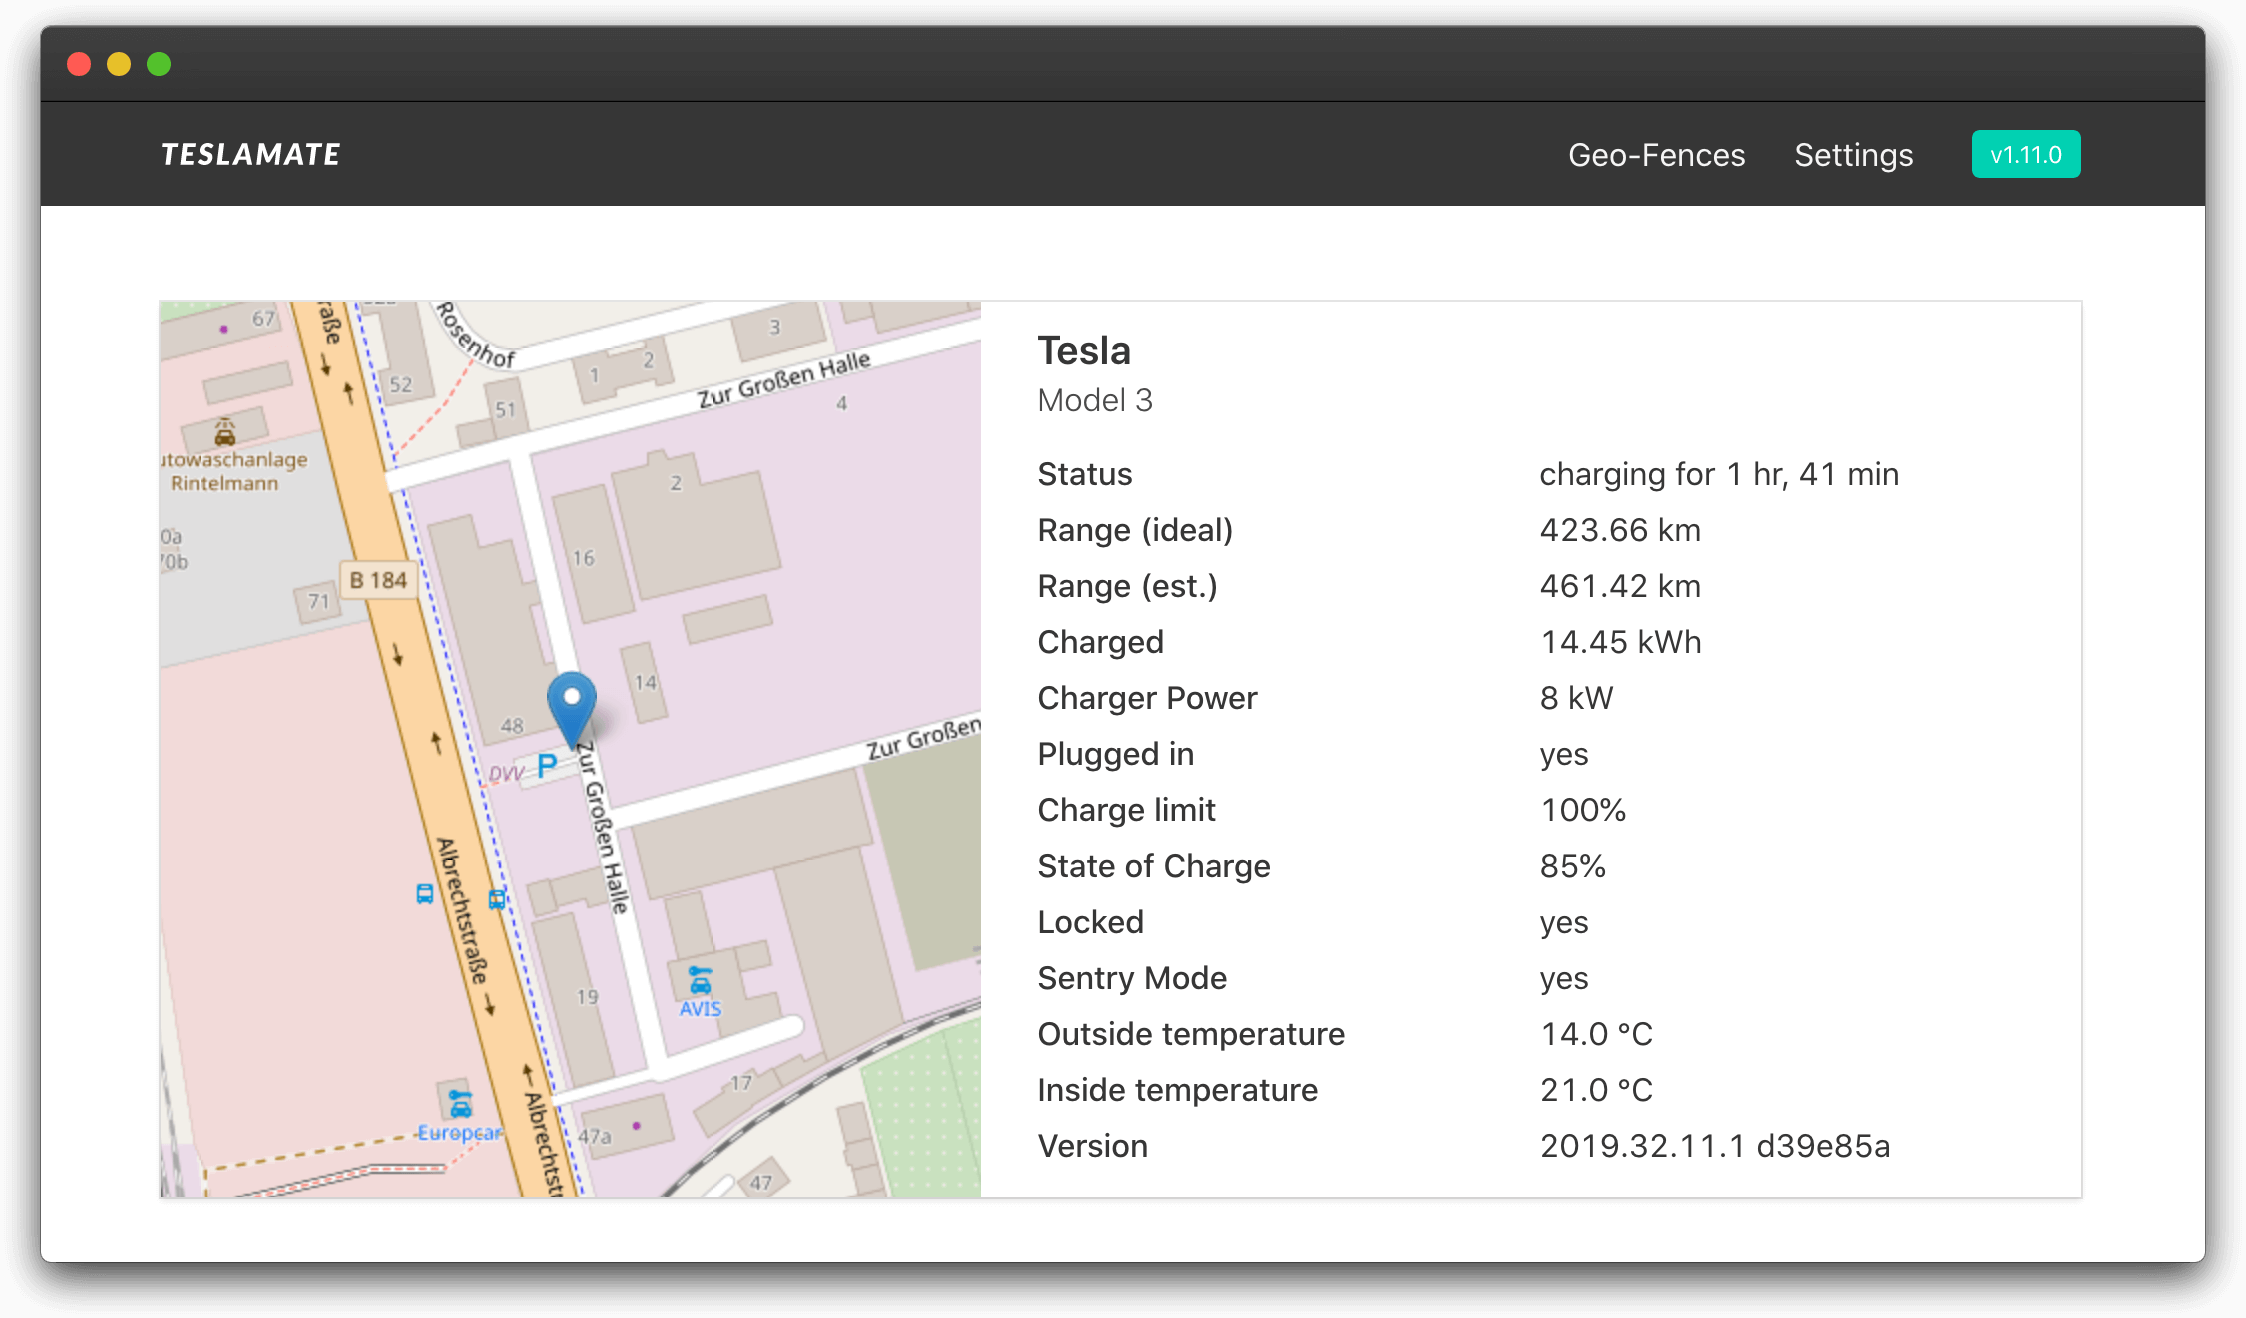
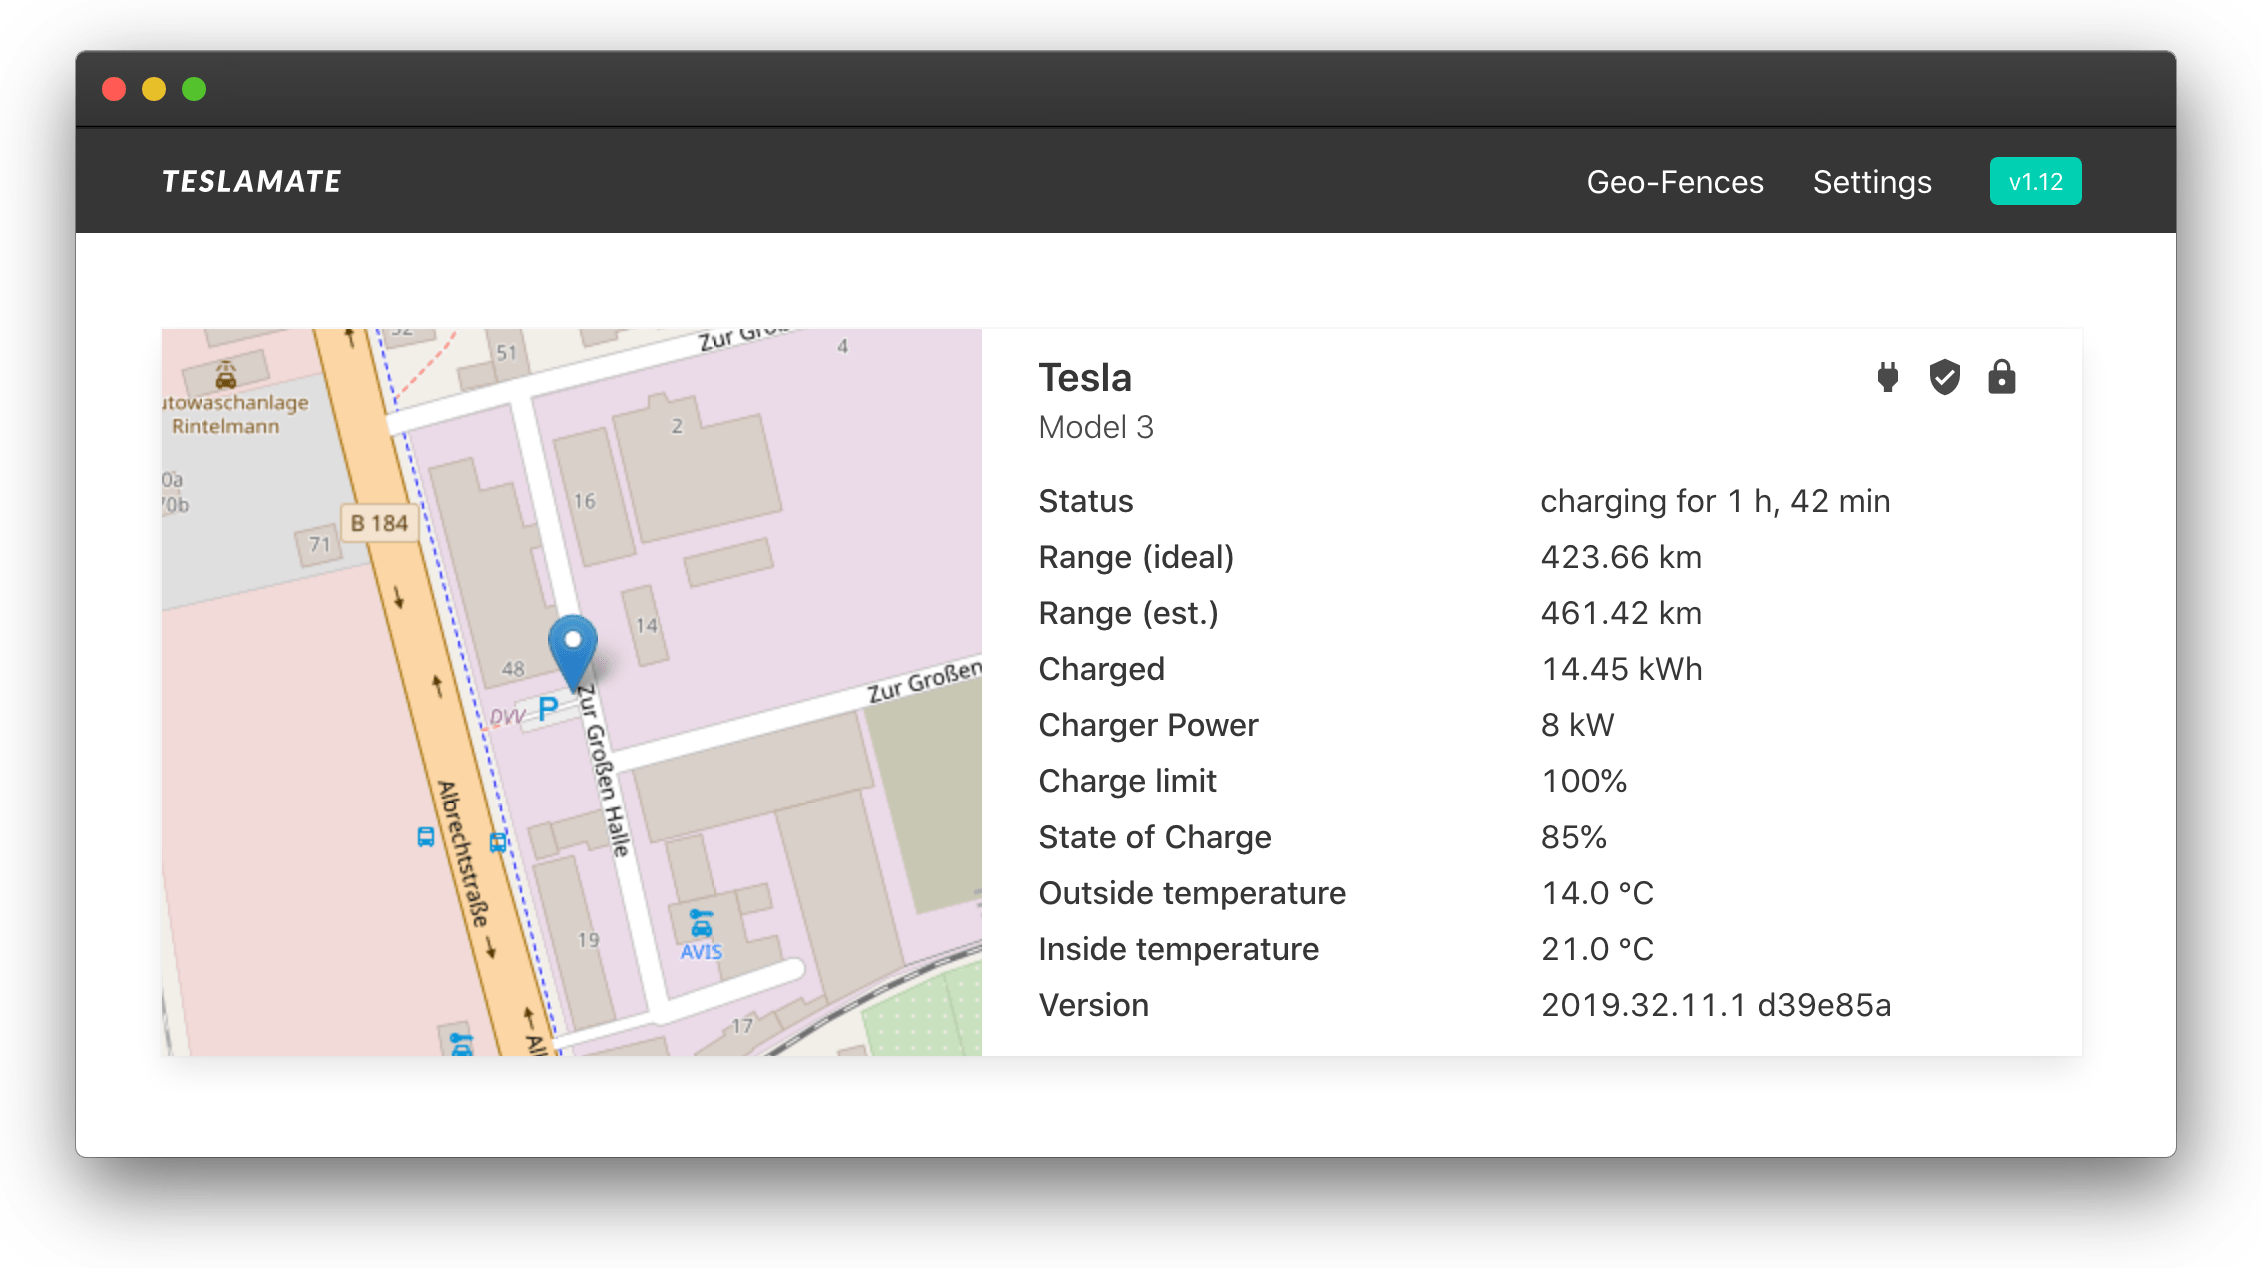
Bump version to 1.12

diff --git a/assets/css/app.scss b/assets/css/app.scss
@@ -111,12 +111,6 @@ $fullhd-enabled: false;
       padding: 0.75rem 1.5rem;
     }
   }
-
-  .update-available {
-    width: 100%;
-    letter-spacing: 0.25px;
-    font-weight: bolder;
-  }
 }
 
 .navbar-brand a.navbar-item:hover {

diff --git a/CHANGELOG.md b/CHANGELOG.md
@@ -1,8 +1,8 @@
 # Changelog
 
-## [1.12.0-dev] - unreleased
+## [1.12.0] - 2019-10-28
 
-We finally have **documentation**! Many thanks to [@ngardiner](https://github.com/ngardiner) for kicking it off and for doing most of the work and also thanks to [@krezac](https://github.com/krezac) for contributing a guide to creating iOS Shortcuts for TeslaMate!
+We finally have **documentation**! Many thanks to [@ngardiner](https://github.com/ngardiner), who gave the impulse and did most of the work and also to [@krezac](https://github.com/krezac), who contributed a guide to creating iOS Shortcuts for TeslaMate!
 
 ### New Features
 
@@ -10,41 +10,38 @@ We finally have **documentation**! Many thanks to [@ngardiner](https://github.co
 
 Previous versions of TeslaMate shipped with hard-coded efficiency values for the various Tesla models. These efficiency values are needed to calculate trip consumptions, because the Tesla API does not provide them directly.
 
-The hard-coded efficiency values were _probably_ pretty accurate, but it was impossible to ensure the correctness of all of them. In addition, the new Model S and X "Raven" could not be reliably identified because the Tesla API returns wrong option codes for both.
+The hard-coded values were _probably_ pretty accurate, but it was impossible to ensure the correctness of all of them. In addition, the new Model S and X "Raven" could not be reliably identified because the Tesla API returns wrong option codes for both.
 
-This version eliminates the need to use hard-coded values and instead calculates them dynamically based on the recorded charging data. It takes **at least two** charges to display the first estimate. Each subsequent charge will continue to improve the accuracy of the estimate, which is applied retroactively to all data.
+This version eliminates the need to use these hard-coded values and instead calculates them based on the recorded charging data. It takes **at least two** charges to display the first estimate. Each subsequent charge will then continue to improve the accuracy of the estimate, which is applied retroactively to all data.
 
 #### Charge energy used
 
 In addition to the kWh added to the battery during the charge TeslaMate now calculates the actual energy used by the charger, which in most cases is higher than the energy added to the battery.
 
-Consider this feature somewhat "experimental". Theoretically, however, it should be pretty accurate as long as the vehicle has a stable internet connection while charging (other _paid_ Tesla loggers use the same calculation method).
+Consider this feature somewhat experimental. Theoretically, however, it should be pretty accurate as long as the vehicle has a stable internet connection while charging (other paid Tesla loggers use the same calculation method).
 
-Currently, a firmware bug in some vehicles causes the wrong number of phases to be reported when charging. As a workaround, a phase correction can therefore be activated per geo-fence.
+Currently, a firmware bug in some vehicles may cause the wrong number of phases to be reported when charging at some chargers. As a workaround, a phase correction can be activated per geo-fence.
 
 #### New MQTT Topics
 
-- `teslamate/cars/$car_id/update_available`: Indicates if a car software update is available
-- `teslamate/cars/$car_id/is_climate_on`: Indicates if the climate control is on
-- `teslamate/cars/$car_id/is_preconditioning`: Indicates if the vehicle is being preconditioned
-- `teslamate/cars/$car_id/is_user_present`: Indicates if a user is present in the vehicle
+- `teslamate/cars/$car_id/update_available`
+- `teslamate/cars/$car_id/is_climate_on`
+- `teslamate/cars/$car_id/is_preconditioning`
+- `teslamate/cars/$car_id/is_user_present`
 
 ### Enhancements
 
-- Disable origin check by default to ease the installation of TeslaMate.
-
-  ⚠ For publicly exposed TeslaMate instances it is advisable to re-enable the check by adding the environment variable `CHECK_ORIGIN=true`.
-
-- Show icon indicators for various things (sentry mode, vehicle locked, windows open, pre-conditioning etc.)
+- Show icon indicators for various states (sentry mode, vehicle locked, windows open, pre-conditioning etc.)
 - Various UI Tweaks
-- Show the precise duration of a drive in a tooltip
+- Grafana: show the precise duration of a trip in a tooltip
 - Serve gzipped assets
+- Disable origin check by default to simplify the installation of TeslaMate. (⚠ For publicly exposed TeslaMate instances it is advisable to re-enable the check by adding the environment variable `CHECK_ORIGIN=true`.)
 
 ### Bug Fixes
 
-- Set the correct end date of charges where the vehicle remains plugged in after the charge is completed
+- Set the correct end date for charges where the vehicle remains plugged in after completion
 - Fix an issue with vehicles that were removed from the Tesla Account
-- Handle API responses which indicate that the vehicle is in service
+- Correctly handle API responses which indicate that the vehicle is in service
 - Display effects of range gains (e.g. from supercharging pre-conditioning a cold battery) as NULL
 
 ---
@@ -524,7 +521,8 @@ New users need to sign in via the web interface.
 
 ## [1.0.0] - 2019-07-25
 
-[1.12.0-dev]: https://github.com/adriankumpf/teslamate/compare/v1.11.1...HEAD
+[unreleased]: https://github.com/adriankumpf/teslamate/compare/v1.12.0...HEAD
+[1.12.0]: https://github.com/adriankumpf/teslamate/compare/v1.11.1...v1.12.0
 [1.11.1]: https://github.com/adriankumpf/teslamate/compare/v1.11.0...v1.11.1
 [1.11.0]: https://github.com/adriankumpf/teslamate/compare/v1.10.0...v1.11.0
 [1.10.0]: https://github.com/adriankumpf/teslamate/compare/v1.9.1...v1.10.0
